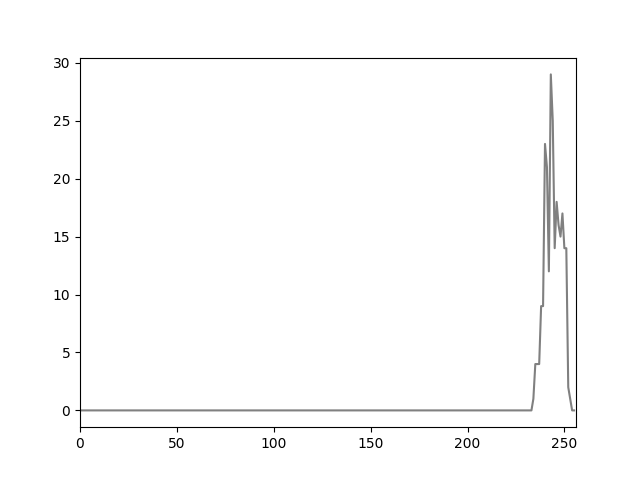
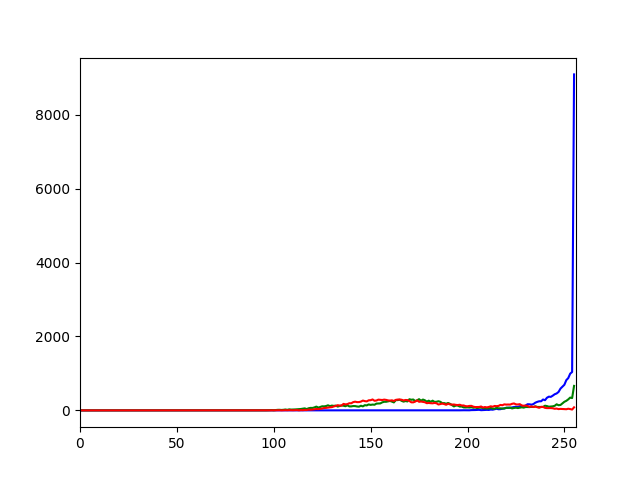
コード見直せ

diff --git a/test_jit.py b/test_jit.py
@@ -13,15 +13,48 @@ blue_threshold_present_img = img_processing2.cut_blue_img2(img1)
 present_char_List1 , mask_present_img2 = img_processing2.mask_make(blue_threshold_present_img)
 cv2.imshow("hh",mask_present_img2)
 cv2.waitKey(0)
-mask_present_img2 = cv2.resize(mask_present_img2, img.shape[1::-1])
-mask_present_img2 = cv2.cvtColor(mask_present_img2, cv2.COLOR_GRAY2RGB)
+#mask_present_img2 = cv2.resize(mask_present_img2, img.shape[1::-1])
+#mask_present_img2 = cv2.cvtColor(mask_present_img2, cv2.COLOR_GRAY2BGR)
+blue_threshold_present_img1 = img_processing2.cut_blue_img2(img)
+present_char_List1 , mask_present_img3 = img_processing2.mask_make(blue_threshold_present_img1)
 print(mask_present_img2.shape)
-dst = cv2.bitwise_and(img1,mask_present_img2)
+cv2.imwrite("mask.jpg",mask_present_img3)
+dst = cv2.bitwise_and(img1,img1,mask=mask_present_img2)
 cv2.imshow("hh",dst)
 cv2.waitKey(0)
 cv2.imwrite("mask_p.jpg",dst)
+
 present_char_List1 , mask_present_img2 = img_processing2.mask_make(blue_threshold_present_img)
 hist_mask = cv2.calcHist([img],[0],mask_present_img2,[256],[0,256])
-plt.plot(hist_mask)
-plt.xlim([0,256])
+color = ('b','g','r')
+img1[img1 >= 255] = 0
+dst = cv2.imread("./mask_p.jpg")
+target_color = (255, 255, 255)
+
+# 変更後の色
+change_color = (0, 0, 0)
+
+# 画像の縦横
+h, w = img.shape[:2]
+
+# 色の変更
+for i in range(h):
+    for j in range(w):
+        b, g, r = img[i, j]
+        if (b, g, r) == target_color:
+            img[i, j] = change_color
+#print(count)
+#dst = cv2.bitwise_and(img,img,mask=mask_present_img2)
+cv2.imshow("hh",img1)
+cv2.waitKey(0)
+
+
+
+for i,col in enumerate(color):
+    histr = cv2.calcHist([img1],[i],mask_present_img2,[256],[0,256])
+    plt.plot(histr,color = col)
+    plt.xlim([0,256])
+plt.savefig("hist4.png")
 plt.show()
+
+

diff --git a/ppoplijng.py b/ppoplijng.py
@@ -1,0 +1,33 @@
+import cv2
+
+# 画像の読み込み
+img = cv2.imread('mask_p.jpg')
+
+# 指定色
+target_color = (255, 255, 255)
+
+# 変更後の色
+change_color = (0, 0, 0)
+
+# 画像の縦横
+h, w = img.shape[:2]
+
+# 色の変更
+for i in range(h):
+    for j in range(w):
+        b, g, r = img[i, j]
+        if (b, g, r) == target_color:
+            img[i, j] = change_color
+
+
+
+
+color = ('b','g','r')
+cv2.imshow("ee",img)
+cv2.waitKey(0)
+for i,col in enumerate(color):
+    histr = cv2.calcHist([img],[i],mask_present_img2,[256],[0,256])
+    plt.plot(histr,color = col)
+    plt.xlim([0,256])
+plt.savefig("hist2.png")
+plt.show()
